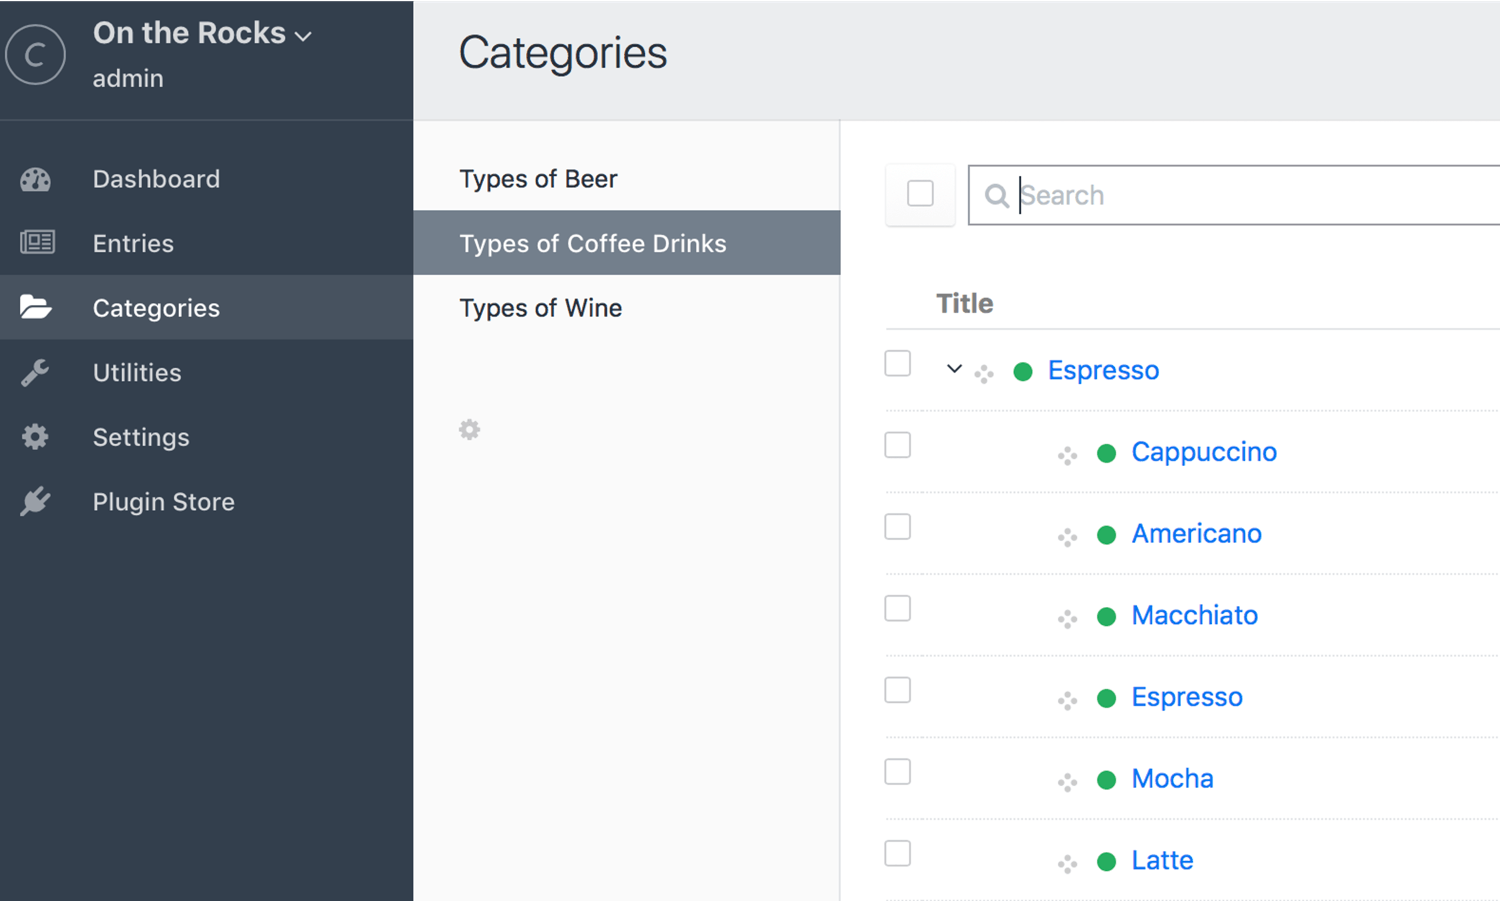
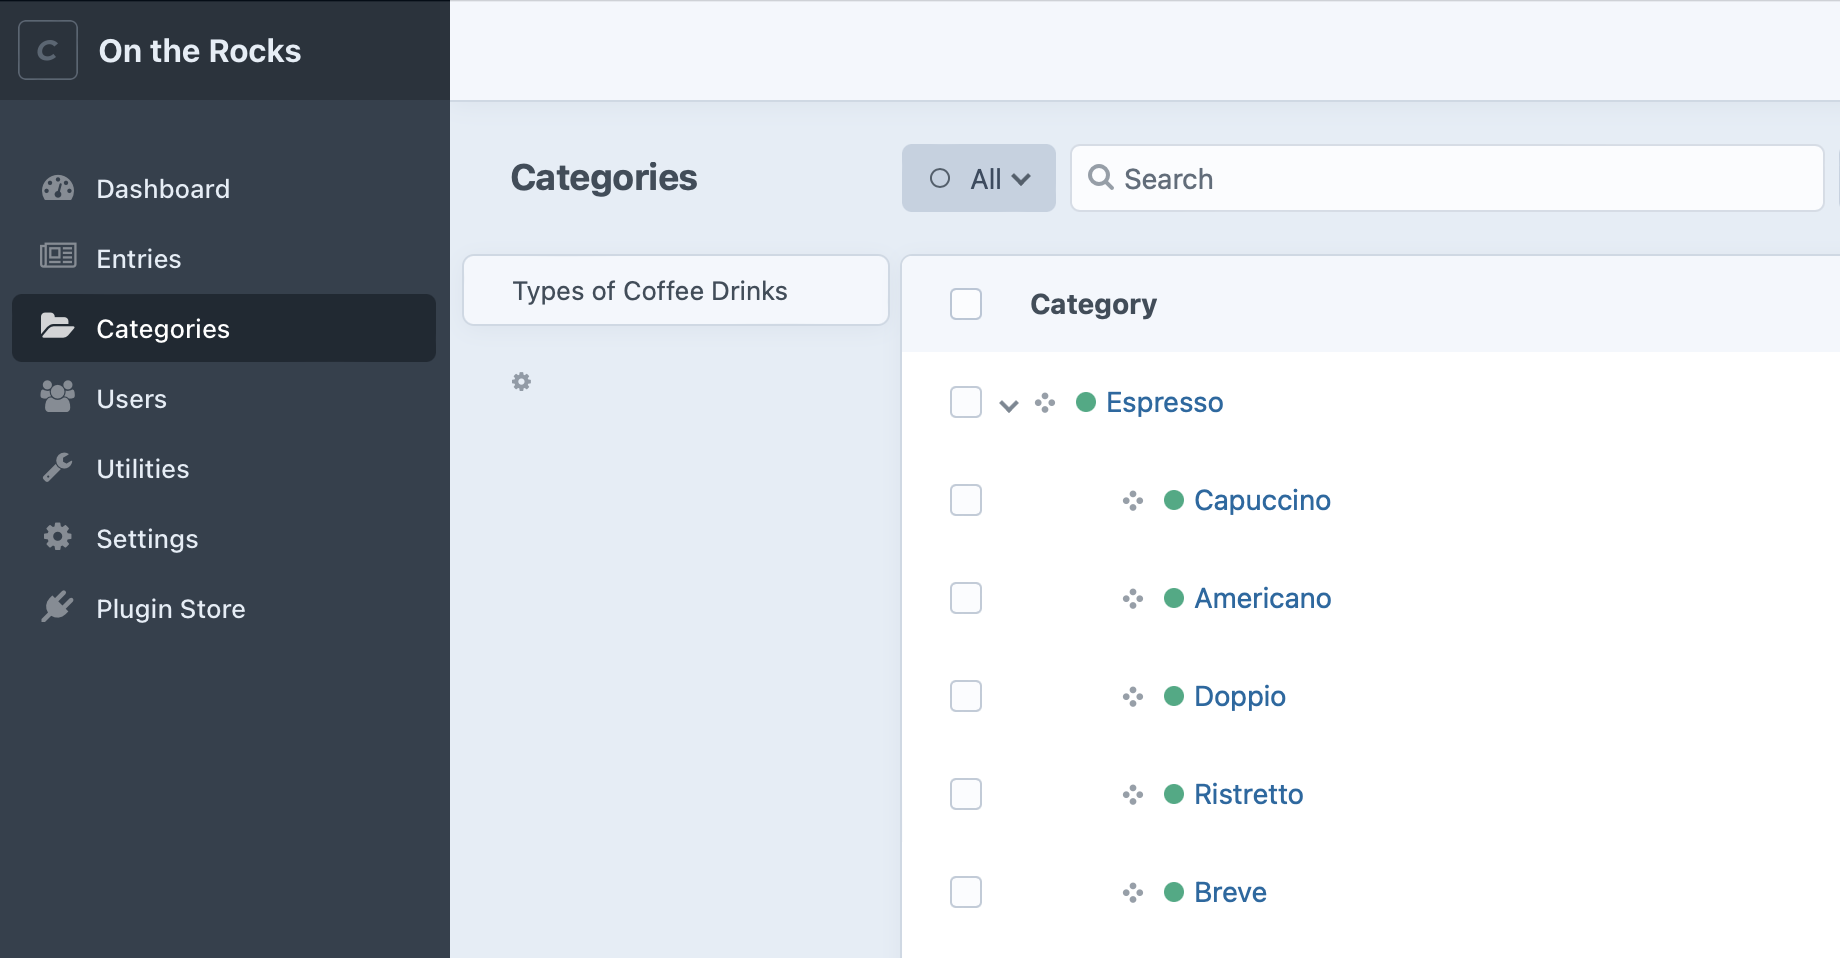
Update 3.x Categories page.

diff --git a/docs/3.x/categories.md b/docs/3.x/categories.md
@@ -13,25 +13,32 @@ Before you can create categories, you must create Category Groups to contain the
 - Which template should load if a category’s URL is accessed
 - Which [fields](fields.md) categories in the group should have
 
-To create a new category group, go to Settings → Categories and click the “New Category Group” button.
+To create a new category group, go to **Settings** → **Categories** and click “New Category Group”.
 
 After you create at least one category group, you will be able to create categories for that group.
 
 ## Category Field Layout
 
-Each Category Groups can have its own Field Layout, which allows you to customize the data that is associated with each category in the group. By default, every category will have a Title field (the category name).
+Each Category Group can have its own Field Layout, which allows you to customize the data that’s associated with each category in the group. By default, every category will have a Title field (the category name).
 
-You can also add additional fields using all of the available field types in Craft. If a field doesn’t yet exist, you must first create it via Settings → Fields. The new field will then be available to assign to the Field Layout of your Category Group.
+You can also add additional fields using all of the available field types in Craft. If a field doesn’t yet exist, you must first create it via **Settings** → **Fields**. The new field will then be available to assign to the Field Layout of your Category Group.
 
 ## Creating and Editing Categories
 
-If you have at least one category group, there will be a “Categories” tab in the primary control panel navigation. Clicking on it will take you to the category index. From there you can choose a category group from the sidebar, and add/reorder/delete categories within it:
+When there’s at least one category group, **Categories** will appear in the primary control panel navigation. Clicking it will take you to the category index. From there, you can choose a category group from the sidebar, and add/reorder/delete categories within it:
 
-![Category Index](./images/categories-category-index.png)
+![Screenshot of the categories index, with “Categories” active in the main navigation, the “Types of Coffee Drinks” category group selected, and a listing of category names in a nested hierarchy](./images/categories-category-index.png)
 
-Double-clicking on a category will bring up a modal that lets you edit its name, slug, and any fields you’ve assigned to the group.
+::: tip
+Select the “Structure” sort to work with a drag-and-drop hierarchy:
+![Close crop of a screenshot with an arrow pointing to the “Structure” view option in the menu immediately to the right of the search bar](./images/category-structure-view.png)
+:::
 
-![Category Edit Modal](./images/categories-edit-popup.png)
+Double-clicking a category’s status icon opens a slideout for quickly editing that category’s details:
+
+![Screenshot of the category listing with a slideout opened for editing the “Americano” category fields](./images/category-slideout.png)
+
+You can also click a category’s title to visit its edit page just like an entry.
 
 When you create a category, you have the following options:
 
@@ -40,7 +47,7 @@ When you create a category, you have the following options:
 - Choose a Parent category. The new category will have a hierarchical relationship with its parent. This is helpful for creating taxonomies with multiple levels. You also have the option of creating a new category while assigning the Parent.
 
 ::: tip
-You can only nest categories up to the level specified in the Max Level field Category Group settings. If no level is specified then the nesting level is unlimited.
+You can only nest categories up to the level specified in the **Max Level** field Category Group settings. If it’s empty, the nesting level is unlimited.
 :::
 
 ## Assigning Categories
